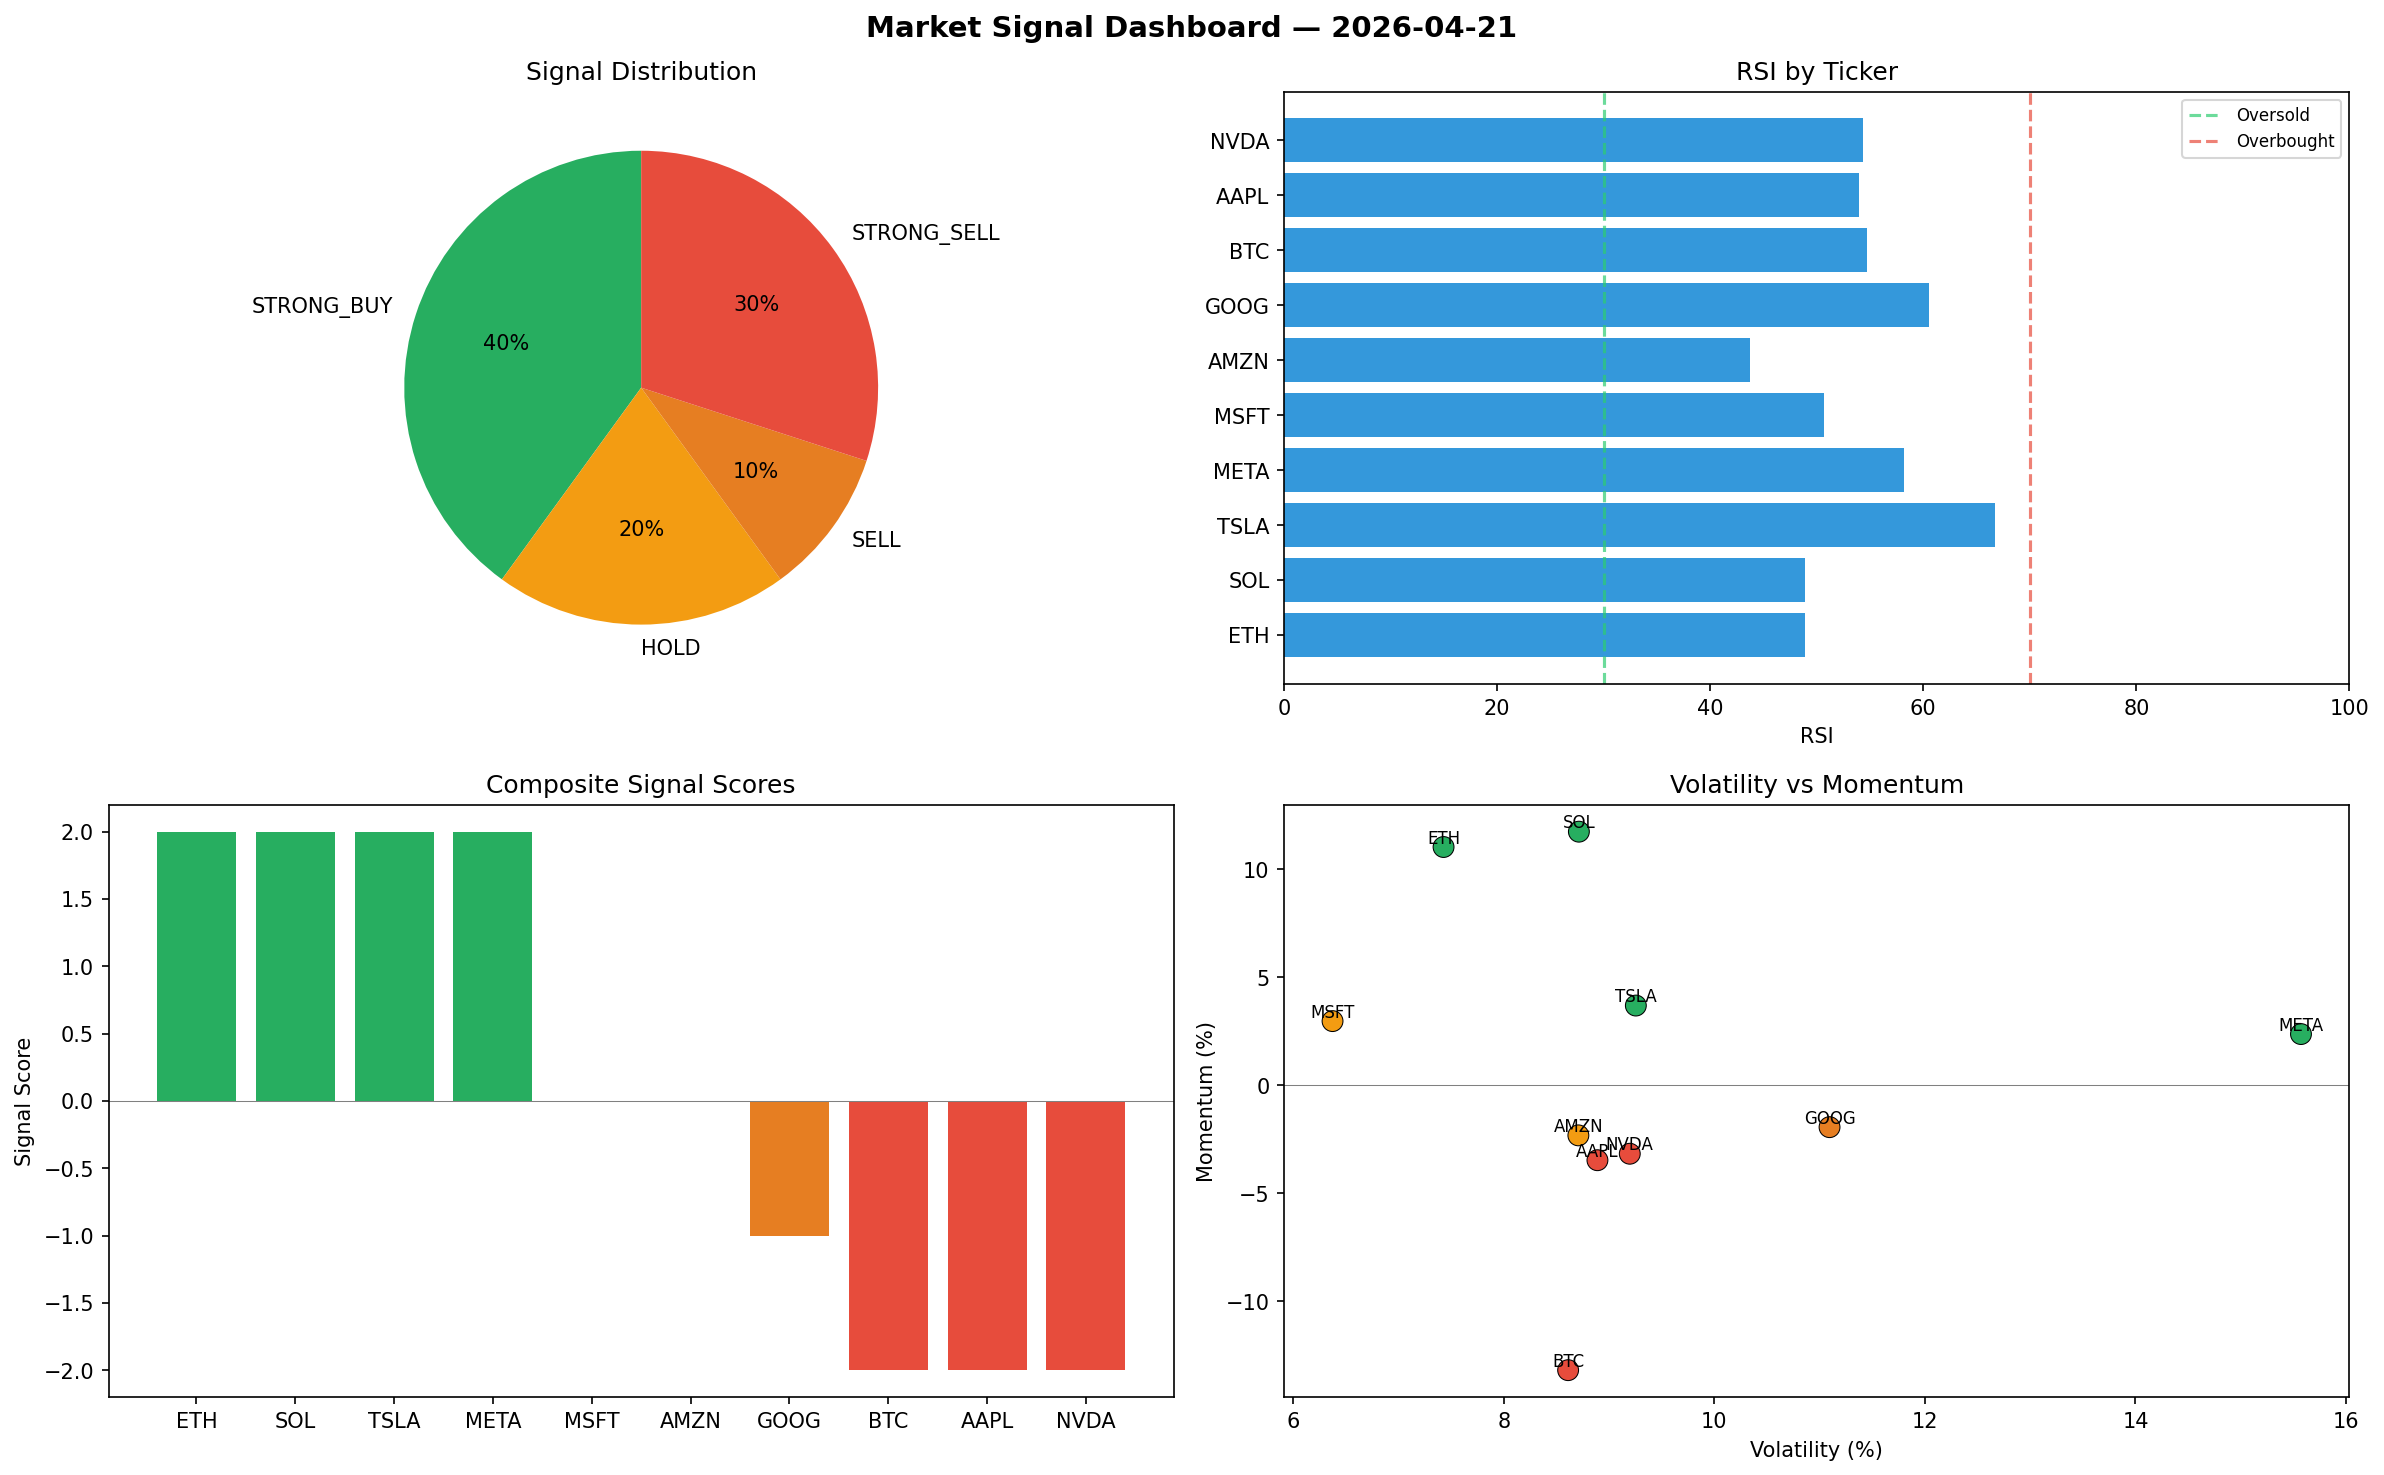
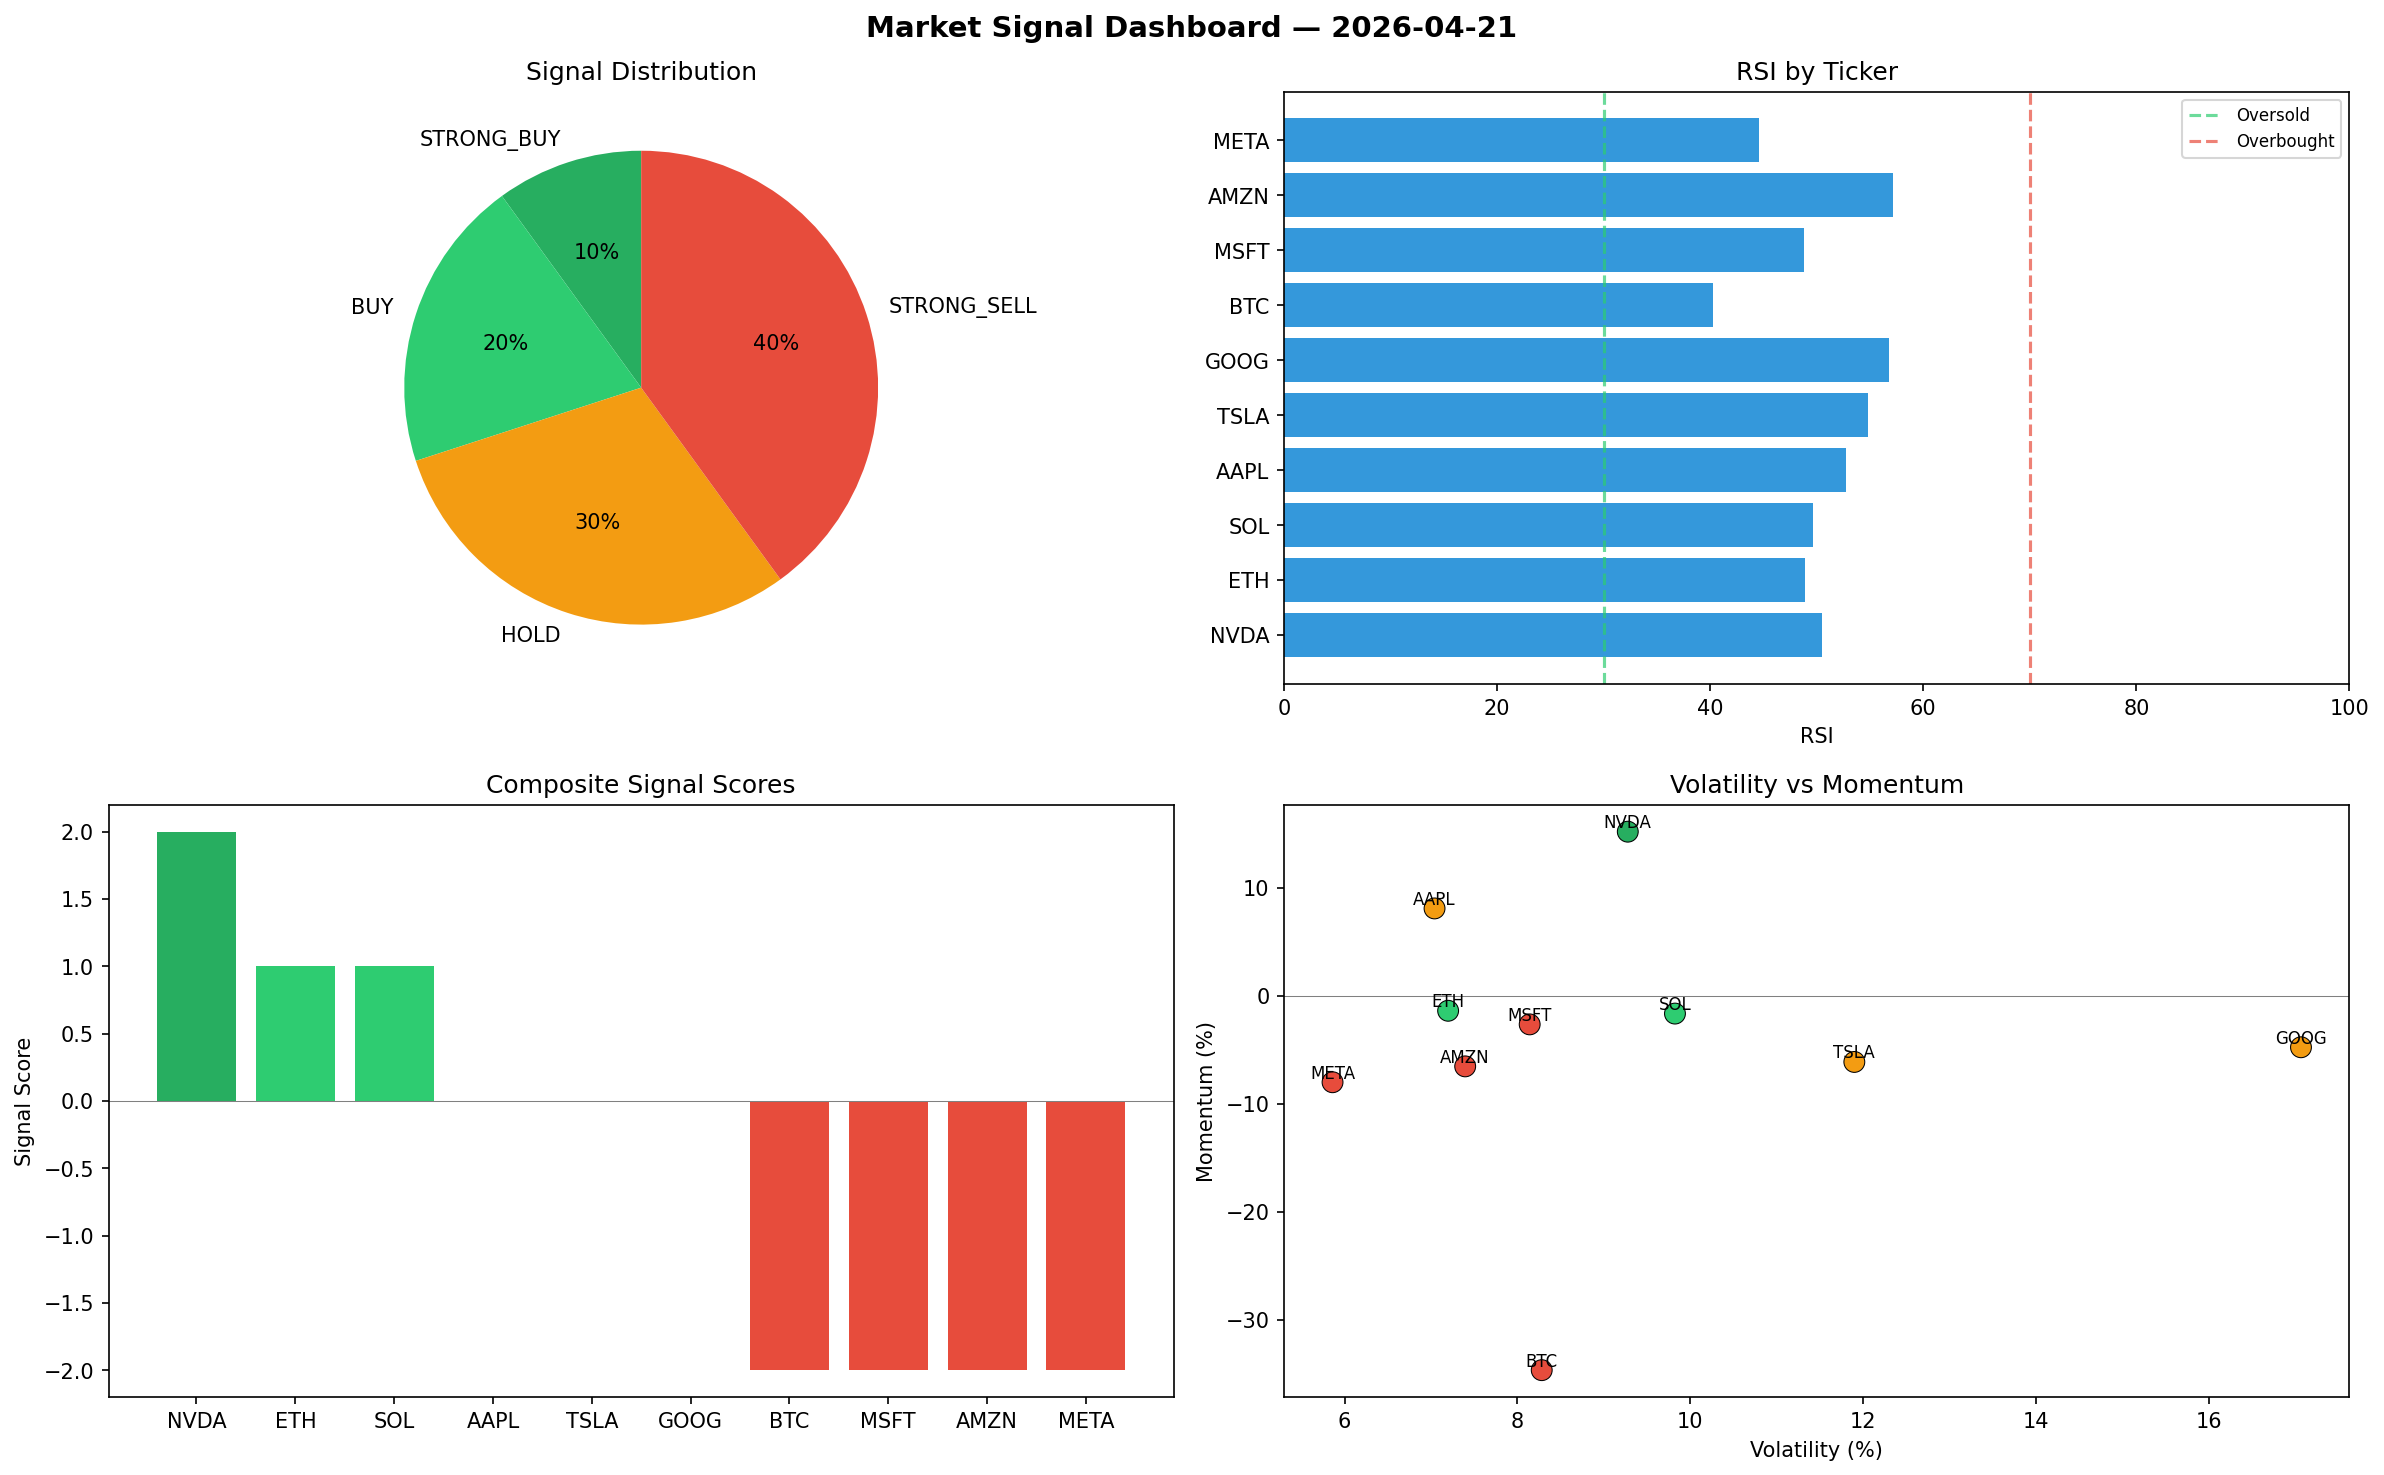
automated-bots: market signals 2026-04-21T21:08

diff --git a/logs/2026-04-21.md b/logs/2026-04-21.md
@@ -1,6 +1,6 @@
 # Market Signal Report — 2026-04-21
 
-**Run ID:** `ade5339779` | **Buy:** 4 | **Sell:** 4 | **Hold:** 2
+**Run ID:** `1888b1b525` | **Buy:** 3 | **Sell:** 4 | **Hold:** 3
 
 ![Dashboard](2026-04-21_dashboard.png)
 
@@ -8,28 +8,28 @@
 
 | Ticker | Price | Signal | Score | RSI | Momentum | Confidence |
 |--------|-------|--------|-------|-----|----------|------------|
-| ETH | $1943.02 | **STRONG_BUY** | 2 | 48.86 | 0.1104 | 0.5 |
-| SOL | $2014.28 | **STRONG_BUY** | 2 | 48.93 | 0.1175 | 0.5 |
-| TSLA | $4963.92 | **STRONG_BUY** | 2 | 66.77 | 0.037 | 0.5 |
-| META | $2347.61 | **STRONG_BUY** | 2 | 58.2 | 0.0238 | 0.5 |
-| MSFT | $1892.65 | **HOLD** | 0 | 50.69 | 0.0298 | 0.0 |
-| AMZN | $1174.31 | **HOLD** | 0 | 43.75 | -0.0231 | 0.0 |
-| GOOG | $3973.79 | **SELL** | -1 | 60.55 | -0.0193 | 0.25 |
-| BTC | $3227.03 | **STRONG_SELL** | -2 | 54.67 | -0.1318 | 0.5 |
-| AAPL | $3700.35 | **STRONG_SELL** | -2 | 53.94 | -0.0346 | 0.5 |
-| NVDA | $2167.33 | **STRONG_SELL** | -2 | 54.33 | -0.0316 | 0.5 |
+| NVDA | $4934.24 | **STRONG_BUY** | 2 | 50.45 | 0.1519 | 0.5 |
+| ETH | $2437.74 | **BUY** | 1 | 48.88 | -0.014 | 0.25 |
+| SOL | $156.19 | **BUY** | 1 | 49.68 | -0.0166 | 0.25 |
+| AAPL | $2646.92 | **HOLD** | 0 | 52.77 | 0.0808 | 0.0 |
+| TSLA | $3389.13 | **HOLD** | 0 | 54.82 | -0.0614 | 0.0 |
+| GOOG | $479.92 | **HOLD** | 0 | 56.78 | -0.0478 | 0.0 |
+| BTC | $3169.31 | **STRONG_SELL** | -2 | 40.3 | -0.3469 | 0.5 |
+| MSFT | $1762.55 | **STRONG_SELL** | -2 | 48.79 | -0.0266 | 0.5 |
+| AMZN | $2084.6 | **STRONG_SELL** | -2 | 57.2 | -0.0655 | 0.5 |
+| META | $915.83 | **STRONG_SELL** | -2 | 44.58 | -0.0802 | 0.5 |
 
 ## Delta vs Yesterday
 
 | Ticker | Today | Yesterday | Price Change | Signal Changed |
 |--------|-------|-----------|-------------|----------------|
-| ETH | STRONG_BUY | STRONG_BUY | 📉 -33.41% | — |
-| SOL | STRONG_BUY | STRONG_BUY | 📉 -23.59% | — |
-| TSLA | STRONG_BUY | HOLD | 📈 24.72% | ⚠ YES |
-| META | STRONG_BUY | STRONG_BUY | 📉 -10.57% | — |
-| MSFT | HOLD | STRONG_SELL | 📉 -42.57% | ⚠ YES |
-| AMZN | HOLD | SELL | 📈 9.89% | ⚠ YES |
-| GOOG | SELL | STRONG_BUY | 📈 776.87% | ⚠ YES |
-| BTC | STRONG_SELL | STRONG_SELL | 📈 1098.57% | — |
-| AAPL | STRONG_SELL | STRONG_BUY | 📈 680.75% | ⚠ YES |
-| NVDA | STRONG_SELL | HOLD | 📉 -31.53% | ⚠ YES |
+| NVDA | STRONG_BUY | HOLD | 📈 55.88% | ⚠ YES |
+| ETH | BUY | STRONG_BUY | 📉 -16.45% | ⚠ YES |
+| SOL | BUY | STRONG_BUY | 📉 -94.07% | ⚠ YES |
+| AAPL | HOLD | STRONG_BUY | 📈 458.48% | ⚠ YES |
+| TSLA | HOLD | HOLD | 📉 -14.85% | — |
+| GOOG | HOLD | STRONG_BUY | 📈 5.9% | ⚠ YES |
+| BTC | STRONG_SELL | STRONG_SELL | 📈 1077.13% | — |
+| MSFT | STRONG_SELL | STRONG_SELL | 📉 -46.52% | — |
+| AMZN | STRONG_SELL | SELL | 📈 95.07% | ⚠ YES |
+| META | STRONG_SELL | STRONG_BUY | 📉 -65.11% | ⚠ YES |
